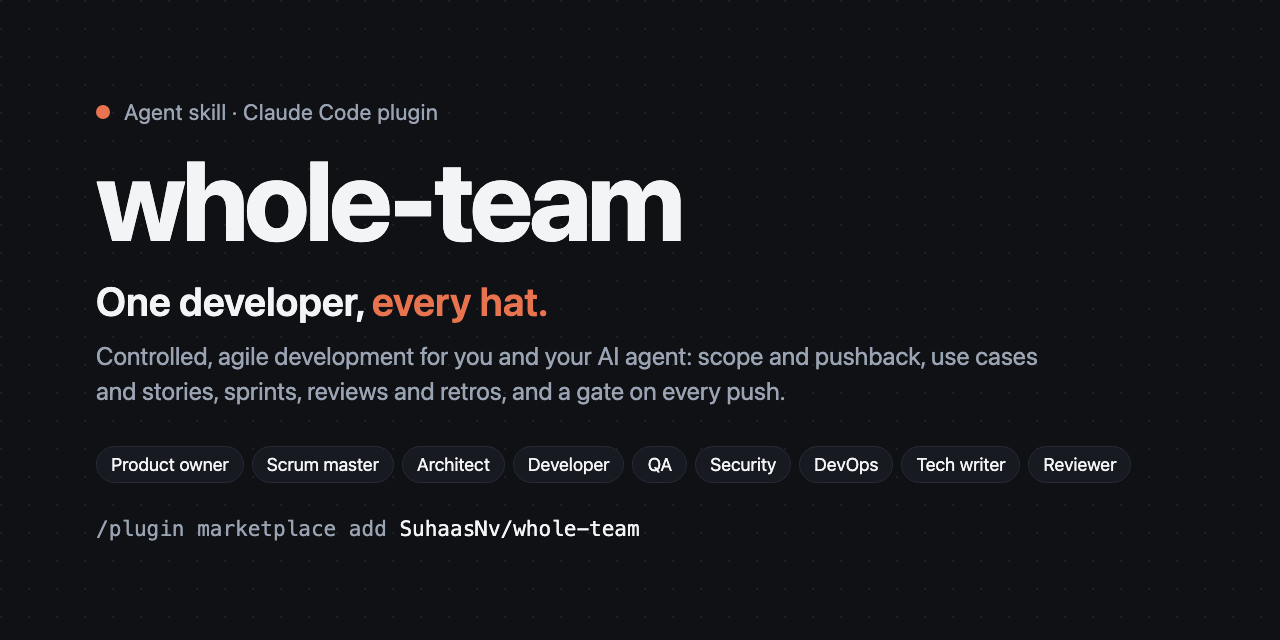
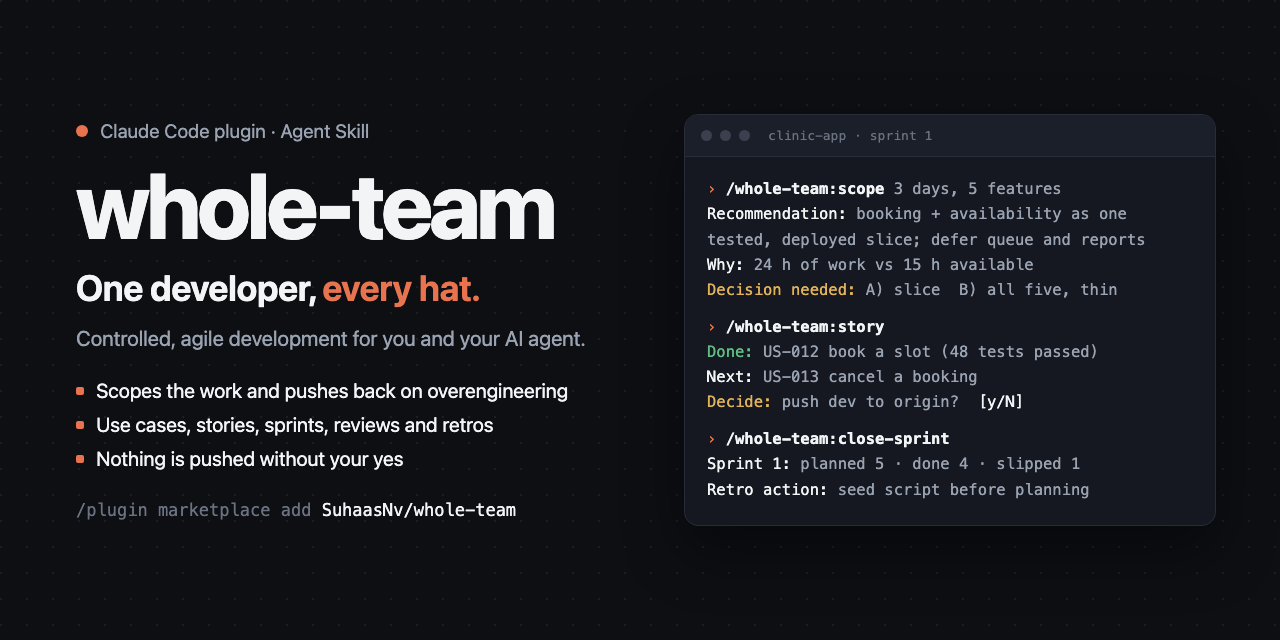
docs: product thumbnail for README and social card

diff --git a/assets/banner.html b/assets/banner.html
@@ -1,57 +1,101 @@
 <!doctype html>
-<!-- Source for banner.png and social-preview.png. Render: python3 tools/render_assets.py -->
+<!-- Source for banner.png (README) and social-preview.png (GitHub). Render: python3 tools/render_assets.py -->
 <html>
 <head>
 <meta charset="utf-8">
 <style>
   :root {
-    --bg: #0f1115;
-    --panel: #171a21;
-    --line: #262b36;
+    --bg: #0d0f13;
+    --panel: #151820;
+    --panel-2: #1b1f29;
+    --line: #272c38;
     --text: #f3f4f6;
     --muted: #9aa3b2;
+    --dim: #6b7383;
     --accent: #e8744f;
+    --green: #5fbf85;
+    --amber: #e3b35a;
   }
   * { box-sizing: border-box; margin: 0; padding: 0; }
-  html, body { width: 1280px; height: 640px; background: var(--bg); }
+  html, body { width: 1280px; height: 640px; overflow: hidden; }
   body {
     font-family: -apple-system, BlinkMacSystemFont, "SF Pro Display", "Segoe UI", Inter, Helvetica, Arial, sans-serif;
     color: var(--text);
-    display: flex;
-    flex-direction: column;
-    justify-content: center;
-    padding: 0 96px;
     background:
-      radial-gradient(circle at 1px 1px, #1d212a 1px, transparent 0) 0 0 / 28px 28px,
+      radial-gradient(circle at 1px 1px, #1a1e27 1px, transparent 0) 0 0 / 26px 26px,
       var(--bg);
+    display: grid;
+    grid-template-columns: 560px 1fr;
+    gap: 48px;
+    align-items: center;
+    padding: 0 64px 0 76px;
   }
-  .mark { display: flex; align-items: center; gap: 14px; color: var(--muted); font-size: 22px; letter-spacing: 0.02em; }
-  .dot { width: 14px; height: 14px; border-radius: 50%; background: var(--accent); }
-  h1 { font-size: 112px; font-weight: 750; letter-spacing: -0.035em; margin-top: 18px; line-height: 1; }
-  .tagline { font-size: 40px; font-weight: 600; margin-top: 22px; }
+  .mark { display: flex; align-items: center; gap: 12px; color: var(--muted); font-size: 19px; }
+  .dot { width: 12px; height: 12px; border-radius: 50%; background: var(--accent); }
+  h1 { font-size: 92px; font-weight: 760; letter-spacing: -0.04em; line-height: 1; margin-top: 16px; }
+  .tagline { font-size: 36px; font-weight: 650; margin-top: 16px; letter-spacing: -0.01em; }
   .tagline span { color: var(--accent); }
-  .sub { font-size: 25px; color: var(--muted); margin-top: 14px; max-width: 980px; line-height: 1.4; }
-  .hats { display: flex; flex-wrap: wrap; gap: 8px; margin-top: 38px; }
-  .hat {
-    font-size: 18px; color: var(--text); padding: 7px 14px; border-radius: 999px;
-    border: 1px solid var(--line); background: var(--panel);
+  .sub { font-size: 21px; color: var(--muted); margin-top: 14px; line-height: 1.45; }
+  ul { list-style: none; margin-top: 26px; display: grid; gap: 11px; }
+  li { font-size: 20px; display: flex; align-items: center; gap: 12px; }
+  li::before { content: ""; width: 8px; height: 8px; border-radius: 2px; background: var(--accent); flex: none; }
+  .install { margin-top: 30px; font-family: "SF Mono", Menlo, Consolas, monospace; font-size: 17px; color: var(--dim); }
+  .install b { color: var(--text); font-weight: 500; }
+
+  .term {
+    background: var(--panel);
+    border: 1px solid var(--line);
+    border-radius: 14px;
+    box-shadow: 0 24px 60px rgba(0, 0, 0, 0.45);
+    overflow: hidden;
   }
-  .cmd {
-    margin-top: 34px; font-family: "SF Mono", Menlo, Consolas, monospace; font-size: 21px; color: var(--muted);
+  .bar { display: flex; align-items: center; gap: 8px; padding: 13px 16px; background: var(--panel-2); border-bottom: 1px solid var(--line); }
+  .bar i { width: 11px; height: 11px; border-radius: 50%; background: #3a404d; display: block; }
+  .bar span { margin-left: 10px; font-size: 13px; color: var(--dim); font-family: "SF Mono", Menlo, monospace; }
+  pre {
+    font-family: "SF Mono", Menlo, Consolas, monospace;
+    font-size: 15.5px;
+    line-height: 1.62;
+    padding: 20px 22px 22px;
+    color: var(--muted);
+    white-space: pre-wrap;
   }
-  .cmd b { color: var(--text); font-weight: 500; }
+  .p { color: var(--accent); }
+  .c { color: var(--text); font-weight: 600; }
+  .k { color: var(--text); }
+  .ok { color: var(--green); }
+  .q { color: var(--amber); }
+  .gap { display: block; height: 12px; }
 </style>
 </head>
 <body>
-  <div class="mark"><div class="dot"></div>Agent skill · Claude Code plugin</div>
-  <h1>whole-team</h1>
-  <div class="tagline">One developer, <span>every hat.</span></div>
-  <div class="sub">Controlled, agile development for you and your AI agent: scope and pushback, use cases and stories, sprints, reviews and retros, and a gate on every push.</div>
-  <div class="hats">
-    <div class="hat">Product owner</div><div class="hat">Scrum master</div><div class="hat">Architect</div>
-    <div class="hat">Developer</div><div class="hat">QA</div><div class="hat">Security</div>
-    <div class="hat">DevOps</div><div class="hat">Tech writer</div><div class="hat">Reviewer</div>
+  <section>
+    <div class="mark"><div class="dot"></div>Claude Code plugin · Agent Skill</div>
+    <h1>whole-team</h1>
+    <div class="tagline">One developer, <span>every hat.</span></div>
+    <div class="sub">Controlled, agile development for you and your AI agent.</div>
+    <ul>
+      <li>Scopes the work and pushes back on overengineering</li>
+      <li>Use cases, stories, sprints, reviews and retros</li>
+      <li>Nothing is pushed without your yes</li>
+    </ul>
+    <div class="install">/plugin marketplace add <b>SuhaasNv/whole-team</b></div>
+  </section>
+
+  <div class="term">
+    <div class="bar"><i></i><i></i><i></i><span>clinic-app · sprint 1</span></div>
+<pre><span class="p">›</span> <span class="c">/whole-team:scope</span> 3 days, 5 features
+<span class="k">Recommendation:</span> booking + availability as one
+tested, deployed slice; defer queue and reports
+<span class="k">Why:</span> 24 h of work vs 15 h available
+<span class="q">Decision needed:</span> A) slice  B) all five, thin
+<span class="gap"></span><span class="p">›</span> <span class="c">/whole-team:story</span>
+<span class="ok">Done:</span> US-012 book a slot (48 tests passed)
+<span class="k">Next:</span> US-013 cancel a booking
+<span class="q">Decide:</span> push dev to origin?  <span class="k">[y/N]</span>
+<span class="gap"></span><span class="p">›</span> <span class="c">/whole-team:close-sprint</span>
+<span class="k">Sprint 1:</span> planned 5 · done 4 · slipped 1
+<span class="k">Retro action:</span> seed script before planning</pre>
   </div>
-  <div class="cmd">/plugin marketplace add <b>SuhaasNv/whole-team</b></div>
 </body>
 </html>
